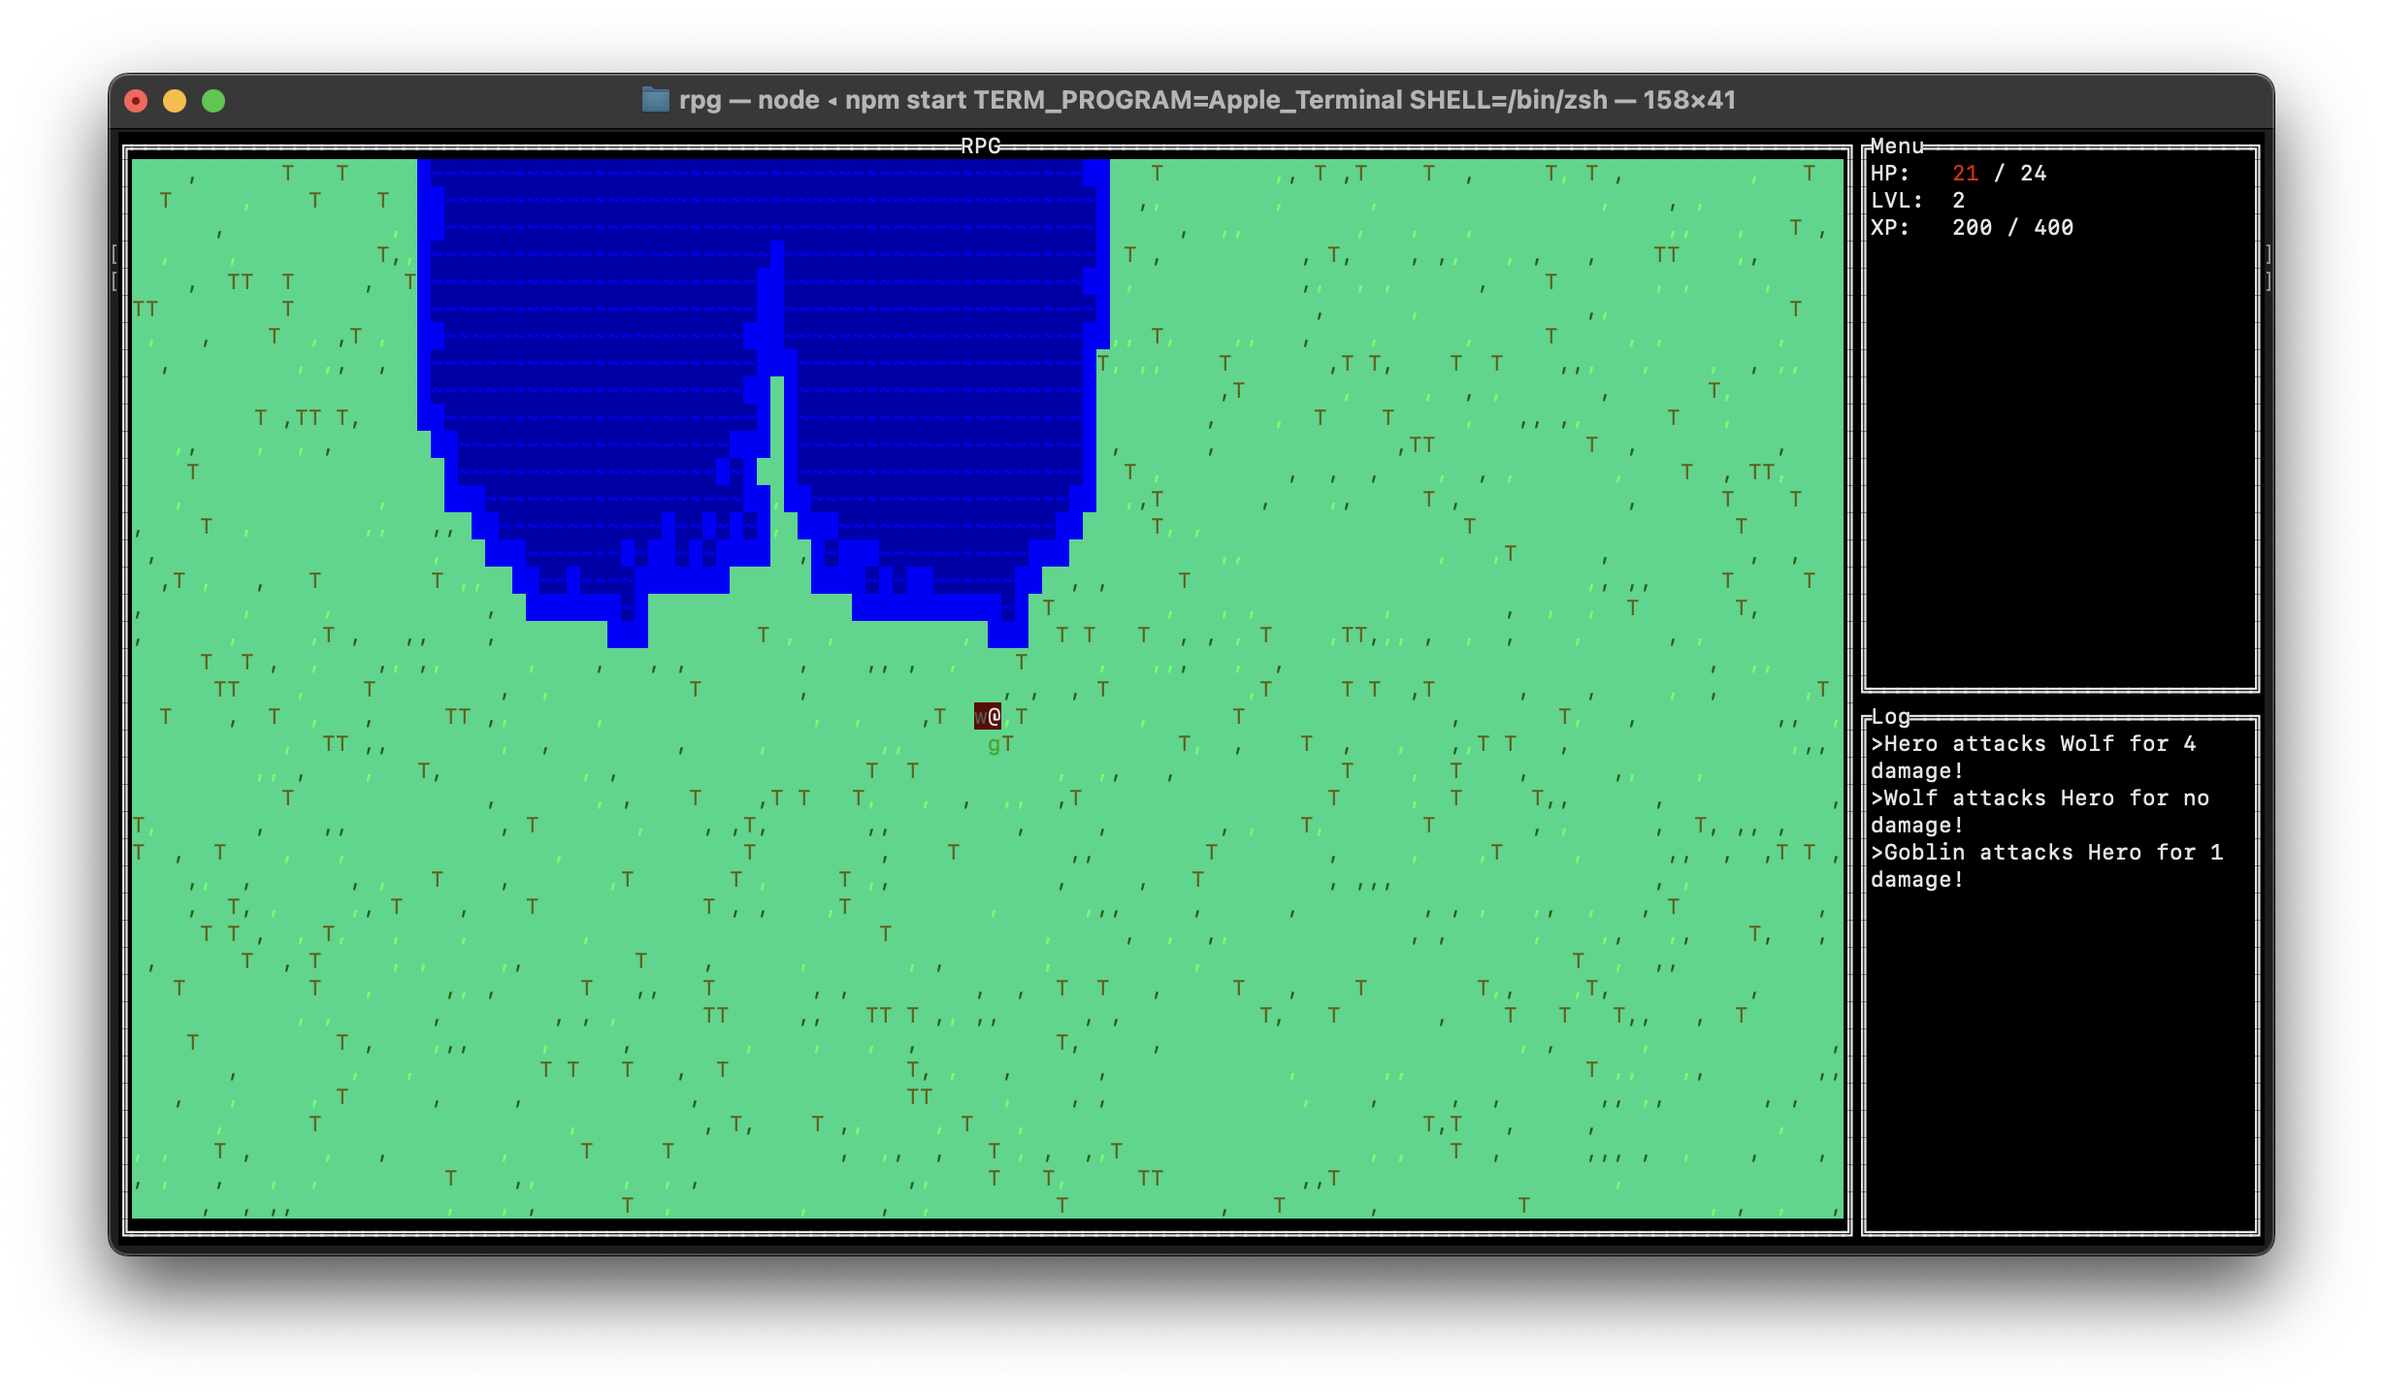
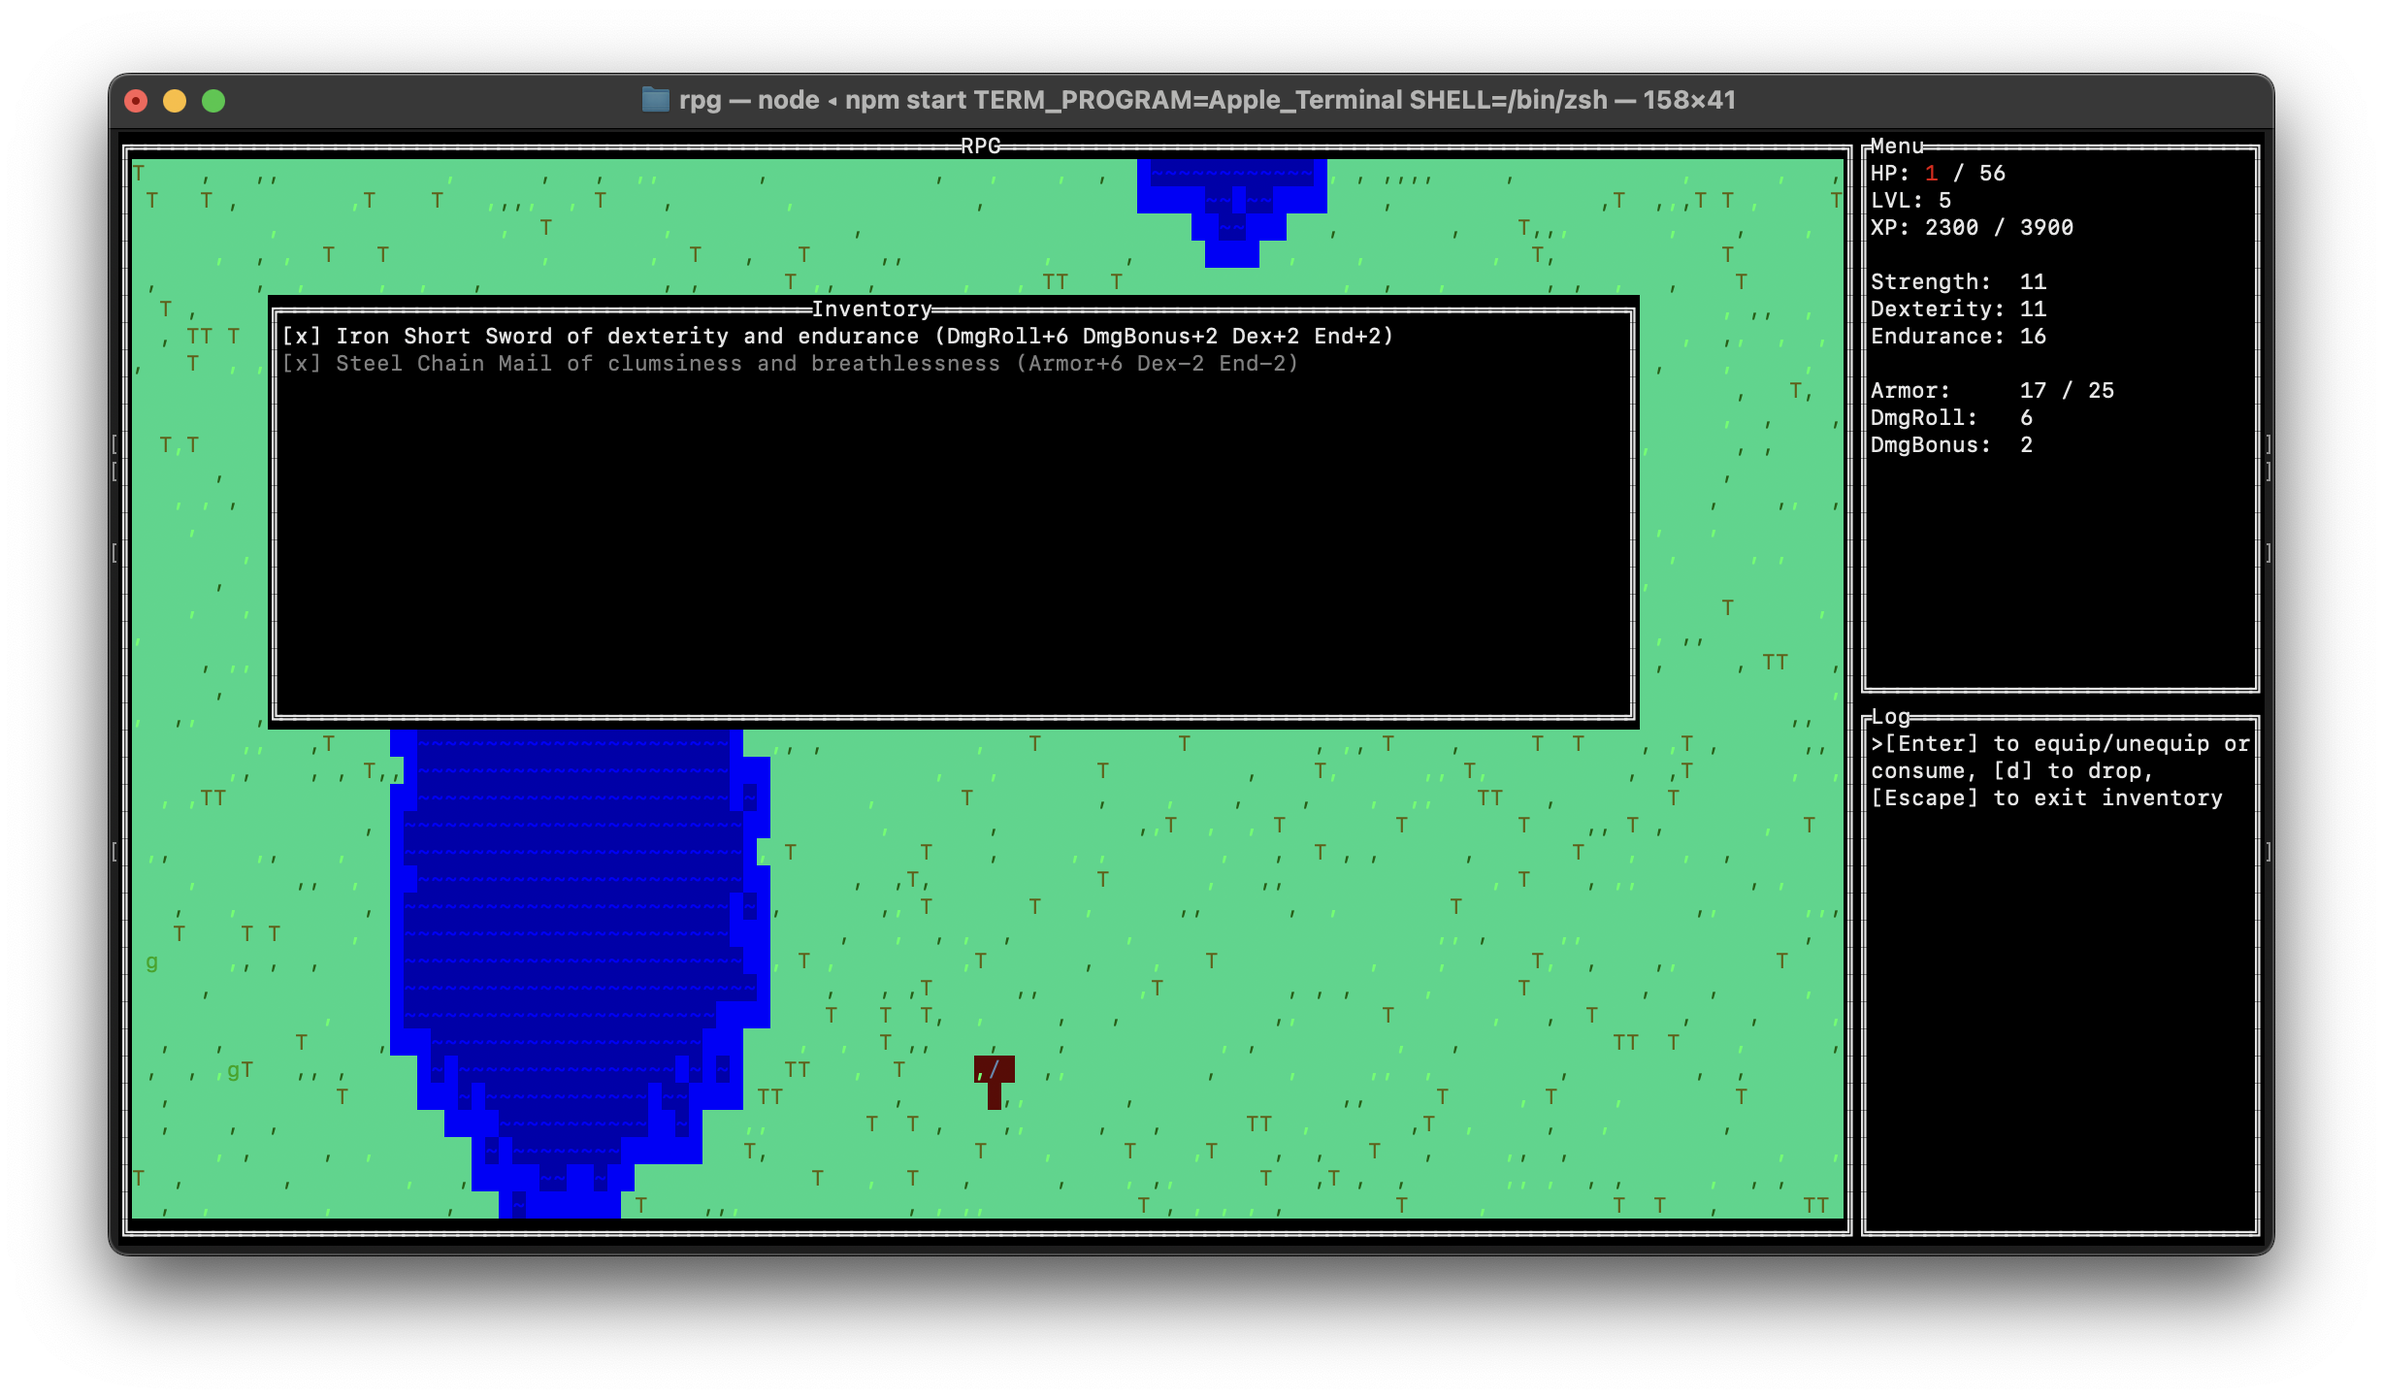
Attributes refactor + stats

diff --git a/src/game/game.ts b/src/game/game.ts
@@ -57,6 +57,7 @@ import {LargeHealthPotion} from "./items/potions/large-health";
 import {Ogre} from "./monsters/ogre";
 import {SpectralHitMonsterModifier} from "./monster-modufiers/spectral-hit";
 import {Skeleton} from "./monsters/skeleton";
+import {PlayerStats} from "./player-stats";
 
 export class Game {
   private state = GameState.Menu;
@@ -88,6 +89,8 @@ export class Game {
     new Position(process.stdout.columns - 30, process.stdout.rows - 20),
     new Position(process.stdout.columns - 1, process.stdout.rows - 1),
   );
+
+  private playerStats = new PlayerStats(this.generateMenuFieldContext());
 
   private getItem(position: Position): Item | undefined {
     return this.items.get(position.serialize());
@@ -364,7 +367,17 @@ export class Game {
   }
 
   private buildInventory(): Inventory {
-    return new Inventory(this.generateGameObjectContext());
+    let defaultActiveIndex = 0;
+    if (this.inventory) {
+      const currentItem = this.inventory.getSelectedItem();
+      if (currentItem) {
+        const currentItemIndex = this.player.inventory.findIndex(i => i === currentItem);
+        if (currentItemIndex !== -1) {
+          defaultActiveIndex = currentItemIndex;
+        }
+      }
+    }
+    return new Inventory(this.generateGameObjectContext(), defaultActiveIndex);
   }
 
   private generateGameObjectContext(): Context {
@@ -465,7 +478,7 @@ export class Game {
       this.inventory = this.buildInventory();
       this.player.makeUninteractive();
       this.inventory.makeInteractive();
-      this.gameLog.log(`[Enter] to equip or consume, [d] to drop, [Escape] to exit inventory`);
+      this.gameLog.log(`[Enter] to equip/unequip or consume, [d] to drop, [Escape] to exit inventory`);
       this.render();
     });
 
@@ -490,27 +503,32 @@ export class Game {
       if (this.inventory) {
         const item = this.inventory.getSelectedItem();
         if (item) {
-          if (item instanceof Weapon) {
-            this.player.equipment.weapon = item;
-          } else if (item instanceof Chest) {
-            this.player.equipment.chest = item;
-          } else if (item instanceof Boots) {
-            this.player.equipment.boots = item;
-          } else if (item instanceof Gauntlets) {
-            this.player.equipment.gauntlets = item;
-          } else if (item instanceof Potion) {
-            this.gameLog.log(`You drank ${item.getName()}`);
-            for (const [stat, value] of Object.entries(item.stats)) {
-              switch (stat) {
-                case 'consumableHpReplenish':
-                  this.player.hp = Math.min(this.player.hp + (value as number), this.player.getMaxHp());
-                  this.gameLog.log(`You gained ${value} HP!`);
-                  break;
-                default:
-                  break;
+          const equippedSlot = Object.entries(this.player.equipment).find(([, value]) => value === item)?.[0];
+          if (equippedSlot) {
+            this.player.equipment[equippedSlot] = undefined;
+          } else {
+            if (item instanceof Weapon) {
+              this.player.equipment.weapon = item;
+            } else if (item instanceof Chest) {
+              this.player.equipment.chest = item;
+            } else if (item instanceof Boots) {
+              this.player.equipment.boots = item;
+            } else if (item instanceof Gauntlets) {
+              this.player.equipment.gauntlets = item;
+            } else if (item instanceof Potion) {
+              this.gameLog.log(`You drank ${item.getName()}`);
+              for (const [stat, value] of Object.entries(item.stats)) {
+                switch (stat) {
+                  case 'consumableHpReplenish':
+                    this.player.hp = Math.min(this.player.hp + (value as number), this.player.getMaxHp());
+                    this.gameLog.log(`You gained ${value} HP!`);
+                    break;
+                  default:
+                    break;
+                }
               }
+              this.player.inventory = this.player.inventory.filter(i => i !== item);
             }
-            this.player.inventory = this.player.inventory.filter(i => i !== item);
           }
           if (this.player.hp > this.player.getMaxHp()) {
             this.player.hp = this.player.getMaxHp();
@@ -557,6 +575,7 @@ export class Game {
     this.healthBar.render();
     this.levelBar.render();
     this.xpBar.render();
+    this.playerStats.render();
 
     this.map.render(this.gameField);
     for (const [serializedPosition, item] of this.items.entries()) {

diff --git a/src/game/character.game-object.ts b/src/game/character.game-object.ts
@@ -6,7 +6,6 @@ import {GameMessage} from "./game-message";
 import {Equipment} from "./equipment";
 import {MonsterModifier} from "./monster-modifier";
 import {SpectralHitMonsterModifier} from "./monster-modufiers/spectral-hit";
-import {Player} from "./player";
 
 export abstract class CharacterGameObject extends GameObject implements Renderable {
   abstract getIsBloody(): boolean;
@@ -38,17 +37,18 @@ export abstract class CharacterGameObject extends GameObject implements Renderab
     return Math.max(1, Math.floor((this.getDexterity() - 10) / 2) + 1);
   }
 
-  public getMaxHp(): number {
+  public getMaxHp(multiplier = 2): number {
     const bonus = Object.values(this.equipment).reduce((acc, e) => acc + (e?.stats?.maxHp ? e.stats.maxHp : 0), 0);
-    return 8 + this.getEndurance() * 2 + bonus;
+    return 8 + this.getEndurance() * multiplier + bonus;
   }
   public hp = this.getMaxHp();
 
-  private getAC(): number {
-    const base = this.equipment.chest ? this.equipment.chest.stats.armor : 10;
+  getAC(): number {
+    const base = 10;
+    const armor = this.equipment.chest ? this.equipment.chest.stats.armor : 0;
     const boots = this.equipment.boots ? this.equipment.boots.stats.armor : 0;
     const gauntlets = this.equipment.gauntlets ? this.equipment.gauntlets.stats.armor : 0;
-    return base + boots + gauntlets + Math.floor((this.getDexterity() - 10) / 1.5);
+    return Math.min(this.MAX_AC, base + armor + boots + gauntlets + Math.floor(this.getDexterity() - 10));
   }
 
   public canAttack(p: Position): boolean {
@@ -94,16 +94,27 @@ export abstract class CharacterGameObject extends GameObject implements Renderab
     });
   }
 
+  getDamageDice(): number {
+    return this.equipment.weapon ? this.equipment.weapon.stats.damageRoll : 4;
+  }
+
+  getDamageBonus(): number {
+    const strengthModifier = Math.floor((this.getStrength() - 10) / 2);
+    const weaponModifier =  this.equipment.weapon ? this.equipment.weapon.stats.damageBonus : 0;
+    return strengthModifier + weaponModifier;
+  }
+
+  private ATTACK_ROLL = 30;
+  public MAX_AC = this.ATTACK_ROLL - 5;
   attack(target: CharacterGameObject): void {
     const ac = target.getAC();
-    const attackRoll = Math.ceil(Math.random() * 30);
+    const attackRoll = Math.ceil(Math.random() * this.ATTACK_ROLL);
     if (attackRoll >= ac || this.modifiers.find(m => m instanceof SpectralHitMonsterModifier)) {
       // hit
-      const dice = this.equipment.weapon ? this.equipment.weapon.stats.damageRoll : 4;
-      const bonus = this.equipment.weapon ? this.equipment.weapon.stats.damageBonus : 0;
+      const dice = this.getDamageDice();
+      const bonus = this.getDamageBonus();
       const damageRoll = Math.ceil(Math.random() * dice);
-      const strengthModifier = Math.floor((this.getStrength() - 10) / 2);
-      const damage = Math.max(damageRoll + strengthModifier + bonus, 0);
+      const damage = Math.max(damageRoll + bonus, 0);
       if (damage === 0) {
         this.context.log(`${this.getName()} attacks ${target.getName()} for no damage!`);
       } else {

diff --git a/src/game/player-stats.ts b/src/game/player-stats.ts
@@ -1,0 +1,40 @@
+import {GameObject} from "./abstract.game-object";
+import {Renderable} from "../io/renderable.interface";
+import {Position} from "../io/position";
+import {ForegroundColor} from "../io/foreground.color";
+import {BackgroundColor} from "../io/background.color";
+
+export class PlayerStats extends GameObject implements Renderable {
+  renderField(j: number, label: string, value: string): void {
+    let i = 0;
+    for (const char of label) {
+      this.context.getRenderer().put(new Position(i, j), {
+        char,
+        color: ForegroundColor.White,
+        backgroundColor: BackgroundColor.Black,
+      });
+      i++;
+    }
+    for (const char of value) {
+      this.context.getRenderer().put(new Position(i, j), {
+        char,
+        color: ForegroundColor.White,
+        backgroundColor: BackgroundColor.Black,
+      });
+      i++;
+    }
+  }
+
+  render(): void {
+    const player = this.context.getPlayer();
+    const j = 4;
+
+    this.renderField(j + 0, 'Strength:  ', player.getStrength() + '');
+    this.renderField(j + 1, 'Dexterity: ', player.getDexterity() + '');
+    this.renderField(j + 2, 'Endurance: ', player.getEndurance() + '');
+
+    this.renderField(j + 4, 'Armor:     ', player.getAC() + ' / ' + player.MAX_AC);
+    this.renderField(j + 5, 'DmgRoll:   ', player.getDamageDice() + '');
+    this.renderField(j + 6, 'DmgBonus:  ', player.getDamageBonus() + '');
+  }
+}

diff --git a/src/game/player.ts b/src/game/player.ts
@@ -21,8 +21,13 @@ export class Player extends CharacterGameObject implements Renderable, Interacti
   public xp = 0;
 
   public nextLevelXp() {
-    return this.level * this.level * 100;
+    return Math.floor(Math.pow(2.5, this.level - 1)) * 100;
   }
+
+  public getMaxHp(): number {
+    return super.getMaxHp(Math.floor(this.level / 2) + 1);
+  }
+  public hp = this.getMaxHp();
 
   public addXp(xp: number): void {
     this.xp += xp;
@@ -31,10 +36,10 @@ export class Player extends CharacterGameObject implements Renderable, Interacti
       this.context.log(`${this.getName()} reached level ${this.level}!`);
       this.endurance += 1;
       this.context.log(`${this.getName()}'s endurance is now ${this.endurance}!`);
-      if (this.level % 8 === 0) {
+      if (this.level % 4 === 0) {
         this.dexterity += 1;
         this.context.log(`${this.getName()}'s dexterity is now ${this.dexterity}!`);
-      } else if (this.level % 4 === 0) {
+      } else if (this.level % 2 === 0) {
         this.strength += 1;
         this.context.log(`${this.getName()}'s strength is now ${this.strength}!`);
       }

diff --git a/src/game/inventory.ts b/src/game/inventory.ts
@@ -9,14 +9,14 @@ import {Item} from "./item";
 export class Inventory extends GameObject implements Renderable, Interactive {
   private list: List;
 
-  constructor(context: Context) {
+  constructor(context: Context, activeItemId: number = 0) {
     super(context);
     const items: Array<{id: string, label: string, onSelect: () => void}> = this.context.getPlayer().inventory.map((item, i) => ({
       id: i + '',
       label: Object.values(this.context.getPlayer().equipment).includes(item) ? `[x] ${item.getName()}` : `[ ] ${item.getName()}`,
       onSelect: () => {},
     }));
-    this.list = new List('Inventory', items, new Position(10, 5), new Position(110, 20));
+    this.list = new List('Inventory', items, new Position(10, 5), new Position(110, 20), true, activeItemId + '');
   }
 
   makeInteractive(): void {

diff --git a/src/game/health-bar.ts b/src/game/health-bar.ts
@@ -18,9 +18,15 @@ export class HealthBar extends GameObject implements Renderable {
       }
       const currentHp = this.context.getPlayer().hp + '';
       for (const char of currentHp) {
+        let color = ForegroundColor.Yellow;
+        if (this.context.getPlayer().hp < this.context.getPlayer().getMaxHp() * 0.25) {
+          color = ForegroundColor.Red;
+        } else if (this.context.getPlayer().hp === this.context.getPlayer().getMaxHp()) {
+          color = ForegroundColor.White;
+        }
         this.context.getRenderer().put(new Position(i, 0), {
           char,
-          color: ForegroundColor.Red,
+          color,
           backgroundColor: BackgroundColor.Black,
         });
         i++;

diff --git a/src/game/item.ts b/src/game/item.ts
@@ -48,13 +48,13 @@ export abstract class Item extends GameObject {
   abstract getBaseName(): string;
 
   private statsNames: Record<keyof ItemStats, string> = {
-    damageRoll: 'DMGROLL',
-    damageBonus: 'DMGBONUS',
-    armor: 'ARM',
-    maxHp: 'MAXHP',
-    strengthBonus: 'STR',
-    dexterityBonus: 'DEX',
-    enduranceBonus: 'END',
+    damageRoll: 'DmgRoll',
+    damageBonus: 'DmgBonus',
+    armor: 'Armor',
+    maxHp: 'MaxHP',
+    strengthBonus: 'Str',
+    dexterityBonus: 'Dex',
+    enduranceBonus: 'End',
     consumableHpReplenish: 'HP',
   }
   getName() {

diff --git a/src/io/list.ts b/src/io/list.ts
@@ -16,9 +16,10 @@ export class List extends Field {
     ltPosition: Position = new Position(0, 0),
     rbPosition: Position = new Position(process.stdout.columns - 1, process.stdout.rows),
     bordered: boolean = true,
+    activeId = items[0]?.id,
   ) {
     super(title, ltPosition, rbPosition, bordered);
-    this.activeId = items[0]?.id;
+    this.activeId = activeId;
   }
 
   public makeInteractive(renderer: Renderer): void {

diff --git a/src/game/monster-modufiers/dexterity.ts b/src/game/monster-modufiers/dexterity.ts
@@ -2,6 +2,6 @@ import {MonsterModifier} from "../monster-modifier";
 
 export class DexterityMonsterModifier extends MonsterModifier {
   constructor() {
-    super('Agile', {dexterity: 4}, 1.5, false);
+    super('Agile', {dexterity: 6}, 1.5, false);
   }
 }

diff --git a/src/game/monster-modufiers/endurance.ts b/src/game/monster-modufiers/endurance.ts
@@ -2,6 +2,6 @@ import {MonsterModifier} from "../monster-modifier";
 
 export class EnduranceMonsterModifier extends MonsterModifier {
   constructor() {
-    super('Grunt', {endurance: 4}, 3, false);
+    super('Grunt', {endurance: 6}, 3, false);
   }
 }

diff --git a/src/game/monster-modufiers/strength.ts b/src/game/monster-modufiers/strength.ts
@@ -2,6 +2,6 @@ import {MonsterModifier} from "../monster-modifier";
 
 export class StrengthMonsterModifier extends MonsterModifier {
   constructor() {
-    super('Strong', {strength: 4}, 2, false);
+    super('Strong', {strength: 6}, 2, false);
   }
 }

diff --git a/src/game/items/chest/leather-armor.ts b/src/game/items/chest/leather-armor.ts
@@ -14,7 +14,7 @@ export class LeatherArmor extends Chest {
   }
 
   private static baseStats = {
-    armor: 11,
+    armor: 2,
   };
 
   constructor(context: Context) {
